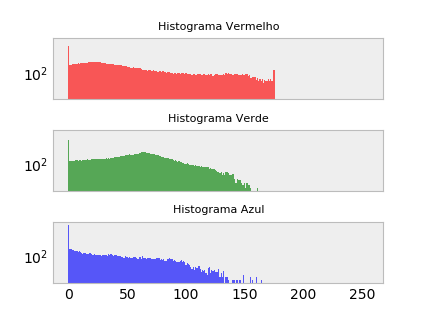
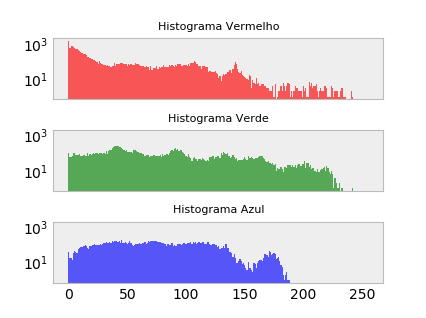
Adds equalization

diff --git a/src/image_processing/filters.py b/src/image_processing/filters.py
@@ -1,3 +1,8 @@
+import numpy as np
+import math
+from .data import histograma_bandas
+
+
 """
 Importante!
 
@@ -54,3 +59,217 @@ def escurecer(img, k):
     e subtrai o escalar k em todas as posicoes
     """
     return soma_escalar(img, -k)
+
+
+""" 
+
+Implementacao de filtros
+
+Suavizacao
+- Filtro de media
+- Filtro de mediana
+
+Realce
+- Filtro de quanticacao
+- Filtro Splitting
+- Equalizacao
+
+"""
+
+
+"""
+
+Algoritmos de vizinhanca
+
+- Vizinhanca de 8
+- Vizinhanca de 4
+- Vizinhanca diagonal
+
+"""
+
+def valid_positions(positions, img_shape):
+    linhas, colunas, dimensoes = img_shape
+    valid_positions = []
+    for position in positions:
+        linha, coluna = position
+        if (linha < linhas and linha >= 0 and coluna < colunas and coluna > 0):
+            valid_positions.append(position)
+    return valid_positions
+
+
+def valid_position(i, j, img_shape):
+    linhas, colunas, _ = img_shape
+    return (0 <= i < linhas and 0 <= j < colunas)
+
+
+def neighbors_8(img, i, j, b):
+    """ retorna arranjo de valores dos pixeis
+    na neighbors de 8
+    """
+    positions = [
+        (i-1, j-1), (i-1, j), (i-1, j+1), (i, j-1),
+        (i, j+1), (i+1, j-1), (i+1, j), (i+1, j+1), (i, j)
+    ]
+    positions = valid_positions(positions, img.shape)
+    neighbors = []
+    for position in positions:
+        linha, coluna = position
+        neighbors.append(img[linha, coluna, b])
+    return neighbors
+
+
+def neighbors_4(img, i, j, b):
+    """ retorna arranjo de valores dos pixeis
+    na neighbors de 4
+    """
+    positions = [
+        (i-1, j), (i, j-1), (i, j+1), (i+1, j), (i, j)
+    ]
+    positions = valid_positions(positions, img.shape)
+    neighbors = []
+    for position in positions:
+        linha, coluna = position
+        neighbors.append(img[linha, coluna, b])
+    return neighbors
+
+
+def neighbors_diag(img, i, j, b):
+    """ retorna arranjo de valores dos pixeis
+    na neighbors diagonal
+    """
+    positions = [
+        (i-1, j-1), (i-1, j+1), (i+1, j-1), (i+1, j+1), (i, j)
+    ]
+    positions = valid_positions(positions, img.shape)
+    neighbors = []
+    for position in positions:
+        linha, coluna = position
+        neighbors.append(img[linha, coluna, b])
+    return neighbors
+
+
+NEIGHBORHOOD = {
+    '8': neighbors_8,
+    '4': neighbors_4,
+    'diag': neighbors_diag
+}
+
+
+def filtro_media_fatima(img, mask_size='3'):
+    img_copy = img.copy()
+    l = math.floor(int(mask_size)/2)
+    # TODO: implementar o filtro
+    linhas, colunas, dimensoes = img.shape
+    for linha in range(linhas):
+        for coluna in range(colunas):
+            for b in range(dimensoes):
+                soma = 0
+                valid = 0
+                for i in range(linha-l, linha+l+1):
+                    for j in range(coluna-l, coluna+l+1):
+                        if (valid_position(i, j, img.shape)):
+                            valid +=1
+                            soma += img[i, j, b]
+                img_copy[linha, coluna, b] = math.ceil(soma/valid)
+    return img_copy
+
+
+def filtro_mediana_fatima(img, mask_size='3'):
+    img_copy = img.copy()
+    l = math.floor(int(mask_size)/2)
+    # TODO: implementar o filtro
+    linhas, colunas, dimensoes = img.shape
+    for linha in range(linhas):
+        for coluna in range(colunas):
+            for b in range(dimensoes):
+                values = []
+                for i in range(linha-l, linha+l+1):
+                    for j in range(coluna-l, coluna+l+1):
+                        if (valid_position(i, j, img.shape)):
+                            values.append(img[i, j, b])
+                values = sorted(values)
+                if len(values) % 2 == 0:
+                    a = (int(values[len(values) // 2]) + int(values[len(values) // 2 - 1]))//2
+                    img_copy[linha, coluna, b] = np.uint8(a)
+                else:
+                    img_copy[linha, coluna, b] = values[len(values)//2]
+    return img_copy
+
+
+def hist_acc(v):
+    return [
+        sum(v[0:i])
+        for i in range(1, len(v)+1)
+    ]
+
+
+def formula_magica(idx, hist_idx, i):
+    return max(0, (hist_idx/i)-1)
+
+
+
+def equalizar(img):
+    histogramas = histograma_bandas(img)
+    histogramas_acumulados = [(hist_acc(hist)) for hist in histogramas]
+    linhas, colunas, dimensoes = img.shape
+    i = linhas * colunas / 256
+
+    qs = []
+    for hist in range(len(histogramas_acumulados)):
+        v_q = []
+        for idx in range(hist):
+            v_q.append(formula_magica(idx, histogramas_acumulados[hist][idx], i))
+            print(v_q)
+        qs.append(v_q)
+    
+    for linha in range(linhas):
+        for coluna in range(colunas):
+            for b in range(dimensoes):
+                print(qs[b])
+                img[linha, coluna, b] = qs[b][img[linha, coluna, b]]
+
+    return img
+
+
+def filtro_media(img, neighbors='8'):
+    neighborhood = NEIGHBORHOOD[neighbors]
+    # TODO: implementar o filtro
+    linhas, colunas, dimensoes = img.shape
+    for linha in range(linhas):
+        for coluna in range(colunas):
+            img[linha, coluna] = [
+                np.mean(neighborhood(img, linha, coluna, b))
+                for b in range(dimensoes)
+            ]
+    return img
+
+
+def filtro_mediana(img, neighbors='8'):
+    neighborhood = NEIGHBORHOOD[neighbors]
+    # TODO: implementar o filtro
+    linhas, colunas, dimensoes = img.shape
+    for linha in range(linhas):
+        for coluna in range(colunas):
+            img[linha, coluna] = [
+                np.median(neighborhood(img, linha, coluna, b))
+                for b in range(dimensoes)
+            ]
+    return img
+
+
+def filtro_quantizacao(img, neighbors='8'):
+    neighborhood = NEIGHBORHOOD[neighbors]
+    # TODO: implementar o filtro
+    return img
+
+
+def filtro_splitting(img, neighbors='8'):
+    neighborhood = NEIGHBORHOOD[neighbors]
+    # TODO: implementar o filtro
+    return img
+
+
+def equalizacao(img, neighbors='8'):
+    neighborhood = NEIGHBORHOOD[neighbors]
+    # TODO: implementar o filtro
+    return img

diff --git a/src/main.py b/src/main.py
@@ -1,6 +1,6 @@
 import sys
 
-from image_processing.filters import clarear, escurecer
+from image_processing.filters import *
 from image_processing.data import histogram
 from util import img2Temp, imgClone, saveImage, readImage
 
@@ -81,6 +81,38 @@ class MainWindow(QMainWindow):
         vboxEscurecer.addStretch(1)
         gpEscurecer.setLayout(vboxEscurecer)
 
+        gpMedia = QGroupBox("Suavizacao media")
+        self.vizinhancaMediaText = QLabel("Vizinhanca:")
+        self.vizinhancaMedia = QLineEdit()
+        self.btnSuavizacaoMedia = QPushButton('Suavizacao media')
+        self.btnSuavizacaoMedia.clicked.connect(self.suavizacaoMediaWrapper)
+        vboxMedia = QVBoxLayout()
+        vboxMedia.addWidget(self.vizinhancaMediaText)
+        vboxMedia.addWidget(self.vizinhancaMedia)
+        vboxMedia.addWidget(self.btnSuavizacaoMedia)
+        vboxMedia.addStretch(1)
+        gpMedia.setLayout(vboxMedia)
+
+        gpMediana = QGroupBox("Suavizacao mediana")
+        self.vizinhancaMedianaText = QLabel("Vizinhanca:")
+        self.vizinhancaMediana = QLineEdit()
+        self.btnSuavizacaoMediana = QPushButton('Suavizacao mediana')
+        self.btnSuavizacaoMediana.clicked.connect(self.suavizacaoMedianaWrapper)
+        vboxMediana = QVBoxLayout()
+        vboxMediana.addWidget(self.vizinhancaMedianaText)
+        vboxMediana.addWidget(self.vizinhancaMediana)
+        vboxMediana.addWidget(self.btnSuavizacaoMediana)
+        vboxMediana.addStretch(1)
+        gpMediana.setLayout(vboxMediana)
+
+        gpEqualizacao = QGroupBox("Equalizacao")
+        self.btnEqualizar = QPushButton('Eu vou equalizar a sua cara')
+        self.btnEqualizar.clicked.connect(self.equalizarWrapper)
+        vboxEqualizacao = QVBoxLayout()
+        vboxEqualizacao.addWidget(self.btnEqualizar)
+        vboxEqualizacao.addStretch(1)
+        gpEqualizacao.setLayout(vboxEqualizacao)
+
         layout = QGridLayout()
         layout.addWidget(self.imagemOriginal, 0, 0)
         layout.addWidget(self.btnLoadImage, 1, 0)
@@ -92,6 +124,9 @@ class MainWindow(QMainWindow):
         # filtros:
         layout.addWidget(gpClarear, 3, 0)
         layout.addWidget(gpEscurecer, 3, 1)
+        layout.addWidget(gpMedia, 4, 0)
+        layout.addWidget(gpMediana, 4, 1)
+        layout.addWidget(gpEqualizacao, 5, 0)
 
         widget = QWidget()  # nossa widget principal
         widget.setLayout(layout)  # seta o layout a ser usado
@@ -104,10 +139,30 @@ class MainWindow(QMainWindow):
         self.updateModifiedImage(modified)
         self.messageBox('Filtro aplicado!')
 
+    def equalizarWrapper(self):
+        img = readImage(FILENAMES['modified'])
+        modified = equalizar(img)
+        self.updateModifiedImage(modified)
+        self.messageBox('Filtro aplicado!')
+
     def escurecerWrapper(self):
         escalar = self.escalarEscurecer.text()
         img = readImage(FILENAMES['modified'])
         modified = escurecer(img, int(escalar))
+        self.updateModifiedImage(modified)
+        self.messageBox('Filtro aplicado!')
+
+    def suavizacaoMediaWrapper(self):
+        vizinhanca = self.vizinhancaMedia.text()
+        img = readImage(FILENAMES['modified'])
+        modified = filtro_media_fatima  (img, vizinhanca)
+        self.updateModifiedImage(modified)
+        self.messageBox('Filtro aplicado!')
+
+    def suavizacaoMedianaWrapper(self):
+        vizinhanca = self.vizinhancaMediana.text()
+        img = readImage(FILENAMES['modified'])
+        modified = filtro_mediana_fatima(img, vizinhanca)
         self.updateModifiedImage(modified)
         self.messageBox('Filtro aplicado!')
 
